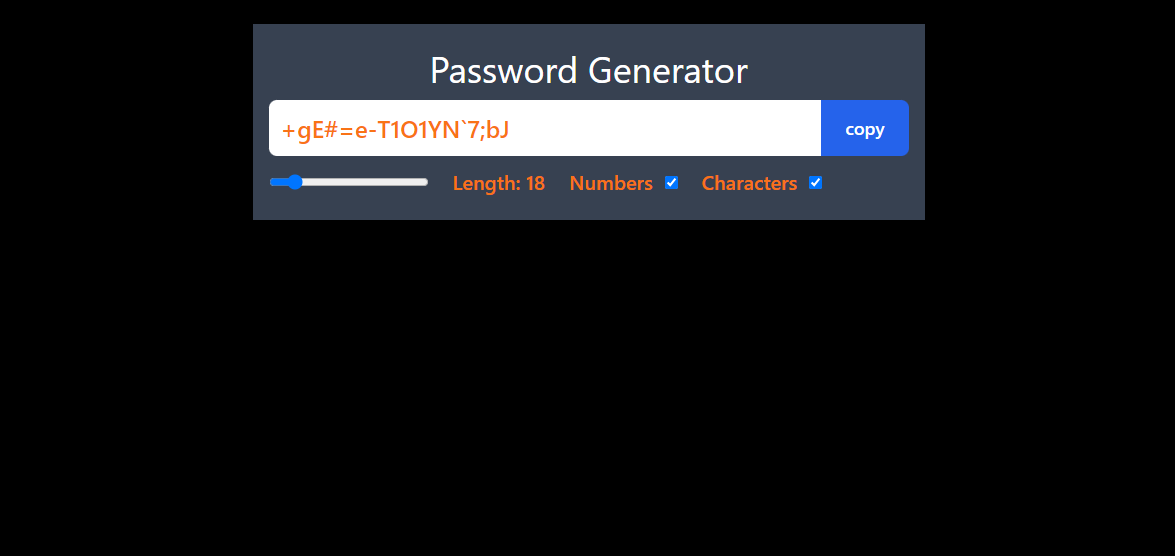
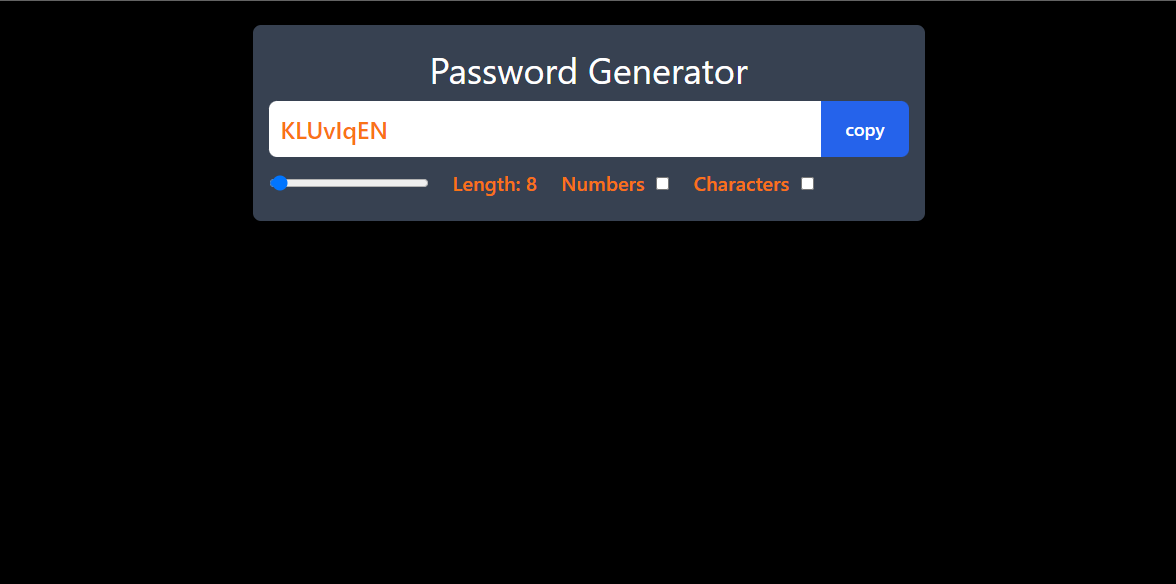
design fixed

Changed region(s): [[0.2145, 0.214, 0.7966, 0.3975], [0.2145, 0.0917, 0.766, 0.1835]]

diff --git a/02-password-generator/src/App.jsx b/02-password-generator/src/App.jsx
@@ -30,7 +30,7 @@ function App() {
 
   return (
     <div className="w-full h-screen bg-black pt-6">
-      <div className="max-w-2xl bg-gray-700 m-auto min-w-fit px-4 py-6">
+      <div className="max-w-2xl bg-gray-700 m-auto min-w-fit px-4 py-6 rounded-lg">
         <h1 className="text-white text-4xl text-center mb-3">
           Password Generator
         </h1>
